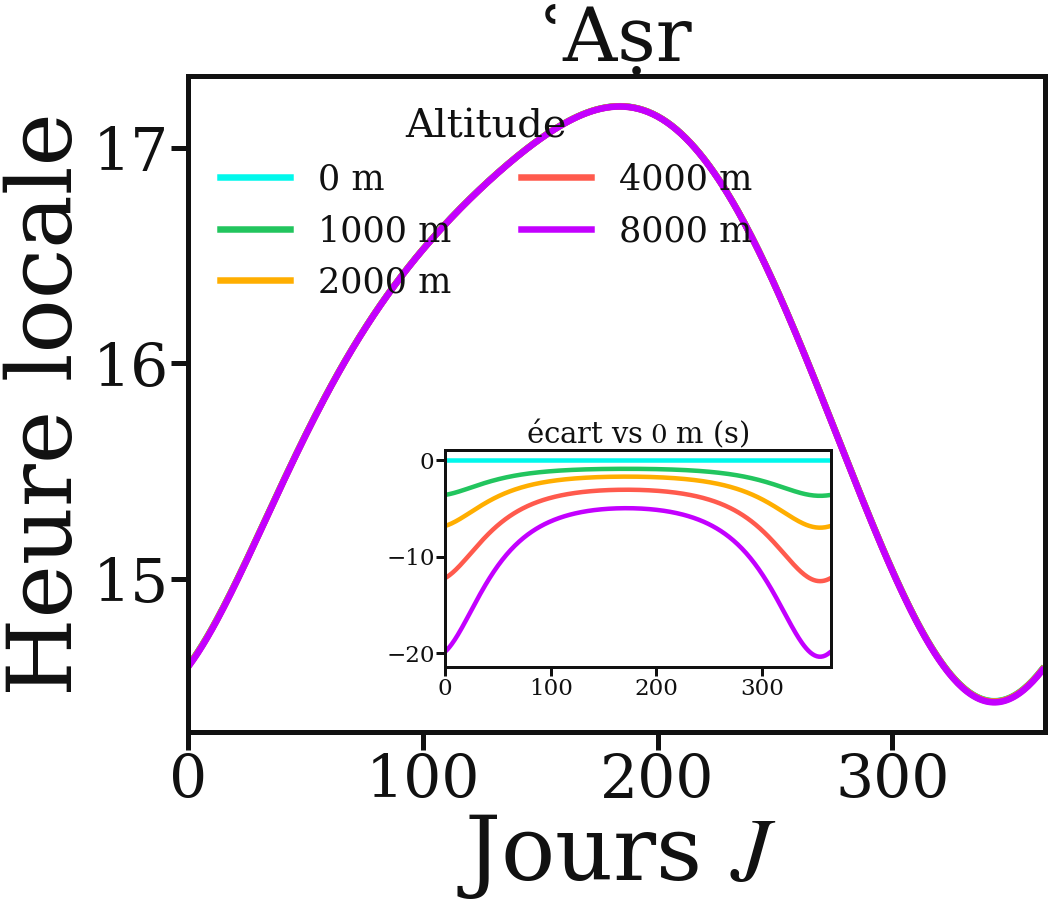
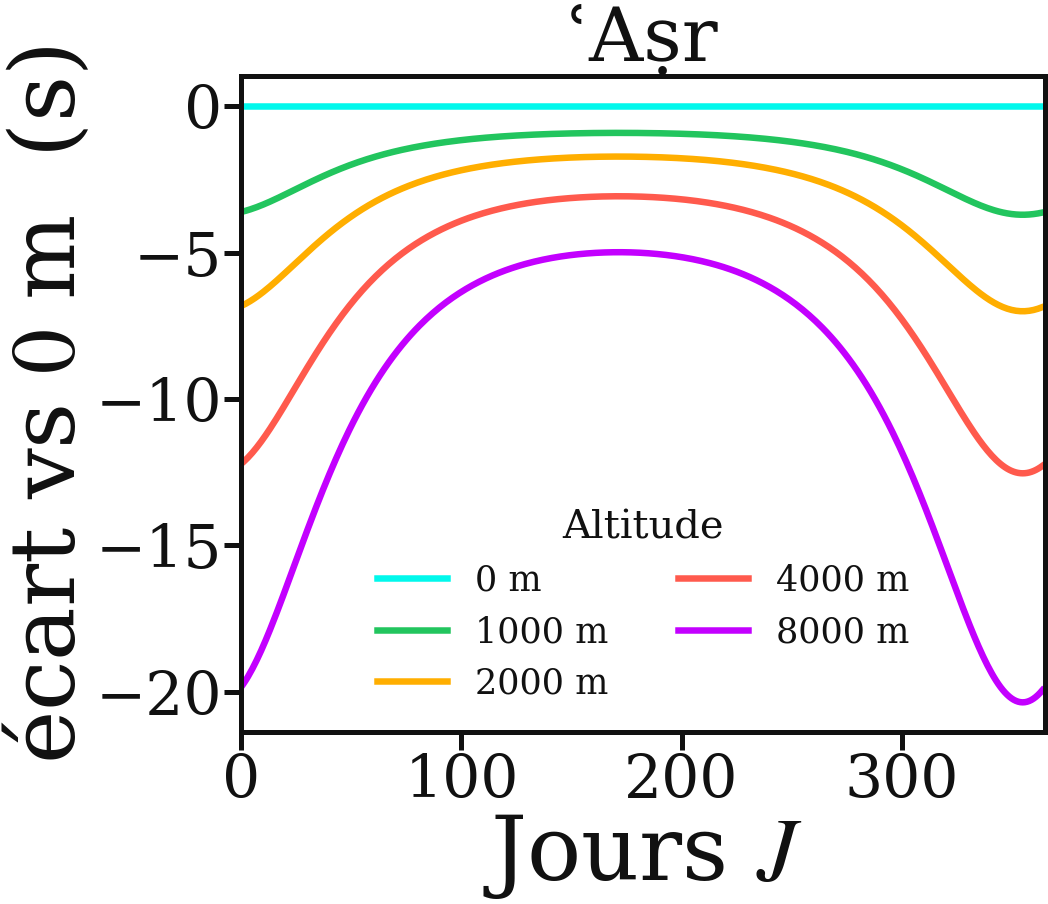
Graphe ʿAṣr : remplace le tracé heures (courbes confondues) par l'écart en secondes vs altitude — lisible ; captions FR/EN

diff --git a/scripts/figures/refraction_prieres.py b/scripts/figures/refraction_prieres.py
@@ -92,29 +92,23 @@ def make(prayer, dark):
         sp.set_linewidth(10)
     ax.tick_params(axis='both', length=35, width=10)
 
-    for alt, col in zip(ALTITUDES, COLS):
-        ax.plot(N, times(prayer, alt), color=col, label=f"{alt} m")
+    if prayer == "Asr":
+        # À l'échelle de l'heure, l'altitude est invisible (effet de quelques s) :
+        # on trace donc l'ÉCART (en secondes) par rapport au niveau de la mer, où
+        # les altitudes se distinguent nettement.
+        ref = times("Asr", 0)
+        for alt, col in zip(ALTITUDES, COLS):
+            ax.plot(N, (times("Asr", alt) - ref) * 3600.0, color=col, label=f"{alt} m")
+        ax.set_ylabel(r"écart vs $0$ m  (s)")
+    else:
+        for alt, col in zip(ALTITUDES, COLS):
+            ax.plot(N, times(prayer, alt), color=col, label=f"{alt} m")
+        ax.set_ylabel(r"Heure locale")
 
     ax.set_xlabel(r"Jours $J$")
-    ax.set_ylabel(r"Heure locale")
     ax.set_xlim(0, 365)
     ax.set_title(TITRES[prayer], fontsize=150, color=fg, pad=30)
-    loc = "upper left" if prayer == "Asr" else "best"
-    ax.legend(loc=loc, frameon=False, fontsize=70, ncol=2, title="Altitude", title_fontsize=80)
-
-    # ʿAṣr : l'effet de l'altitude n'est que de quelques secondes → encart de l'écart
-    # (t(alt) − t(0 m), en secondes) qui isole proprement l'effet sur l'année.
-    if prayer == "Asr":
-        ref = times("Asr", 0)
-        axin = ax.inset_axes([0.30, 0.10, 0.45, 0.33])
-        for alt, col in zip(ALTITUDES, COLS):
-            axin.plot(N, (times("Asr", alt) - ref) * 3600.0, color=col, lw=9)
-        axin.set_xlim(0, 365)
-        axin.set_facecolor("none")
-        for sp in axin.spines.values():
-            sp.set_edgecolor(fg); sp.set_linewidth(6)
-        axin.tick_params(colors=fg, labelsize=46, length=18, width=6)
-        axin.set_title(r"écart vs $0$ m (s)", color=fg, fontsize=58, pad=10)
+    ax.legend(loc="best", frameon=False, fontsize=70, ncol=2, title="Altitude", title_fontsize=80)
 
     suffix = "dark" if dark else "light"
     fig.savefig(f"../../public/tawqit/refraction_{prayer.lower()}_{suffix}.png",

diff --git a/src/content/projects/tawqit.fr.md b/src/content/projects/tawqit.fr.md
@@ -665,16 +665,17 @@ horaire au fil de l'année, à Roubaix ($50{,}7^\circ$ N) :
 *Horaire pour cinq altitudes du lieu ($0$ à $8000$ m). Plus on est haut, plus
 l'horizon s'abaisse : le *Maghrib* est **retardé** et le *Chourouq* **avancé** de
 plusieurs minutes en montagne. L'*ʿAṣr*, fixé par l'ombre et non par l'horizon, est
-quasi insensible : les courbes se confondent à l'échelle de l'heure — seule la
-réfraction (∝ pression, donc ∝ altitude) introduit un écart de quelques
-**secondes**, visible dans l'encart.*
+quasi insensible : à l'échelle de l'heure les courbes se confondent, on trace donc
+son **écart en secondes** par rapport au niveau de la mer (3ᵉ graphe). Cet écart,
+dû à la seule réfraction (∝ pression, donc ∝ altitude), ne dépasse pas ~$20$ s à
+$8000$ m, et se creuse en hiver.*
 
 - **Maghrib & Chourouq** — le Soleil frôle l'horizon : l'altitude du lieu
   **abaisse l'horizon** et **décale l'horaire de plusieurs minutes** — le
   *Maghrib* est retardé, le *Chourouq* avancé, d'autant plus qu'on monte haut.
 - **ʿAṣr** — son heure est fixée par la longueur de l'**ombre**, pas par
   l'horizon : l'altitude ne joue **qu'au travers de la réfraction** (∝ pression),
-  pour quelques secondes seulement (encart) — négligeable en pratique.
+  pour quelques secondes seulement (3ᵉ graphe) — négligeable en pratique.
 - **Fajr & ʿIshāʾ** — définis par un **angle de dépression** choisi ($18^\circ$,
   etc.), ils intègrent déjà implicitement les conditions d'observation.
 

diff --git a/src/content/projects/tawqit.en.md b/src/content/projects/tawqit.en.md
@@ -643,15 +643,17 @@ year, at Roubaix ($50.7^\circ$ N):
 *Time for five site elevations ($0$ to $8000$ m). The higher you stand, the lower
 the horizon drops: *Maghrib* is **delayed** and *Shurūq* **advanced** by several
 minutes in the mountains. *ʿAṣr*, set by the shadow and not by the horizon, is
-nearly insensitive: the curves coincide at the hour scale — only refraction
-(∝ pressure, hence ∝ altitude) adds a few-**second** shift, shown in the inset.*
+nearly insensitive: at the hour scale the curves coincide, so we plot its **shift
+in seconds** relative to sea level (third graph). This shift, due to refraction
+alone (∝ pressure, hence ∝ altitude), stays under ~$20$ s at $8000$ m and deepens
+in winter.*
 
 - **Maghrib & Shurūq** — the Sun grazes the horizon: the site's elevation
   **lowers the horizon** and **shifts the time by several minutes** — *Maghrib*
   delayed, sunrise advanced, more so the higher you go.
 - **ʿAṣr** — its time is set by the **shadow** length, not by the horizon:
   elevation only acts **through refraction** (∝ pressure), for a few seconds
-  (inset) — negligible in practice.
+  (third graph) — negligible in practice.
 - **Fajr & ʿIshāʾ** — defined by a chosen **depression angle** ($18^\circ$, etc.),
   they already implicitly fold in the observation conditions.
 